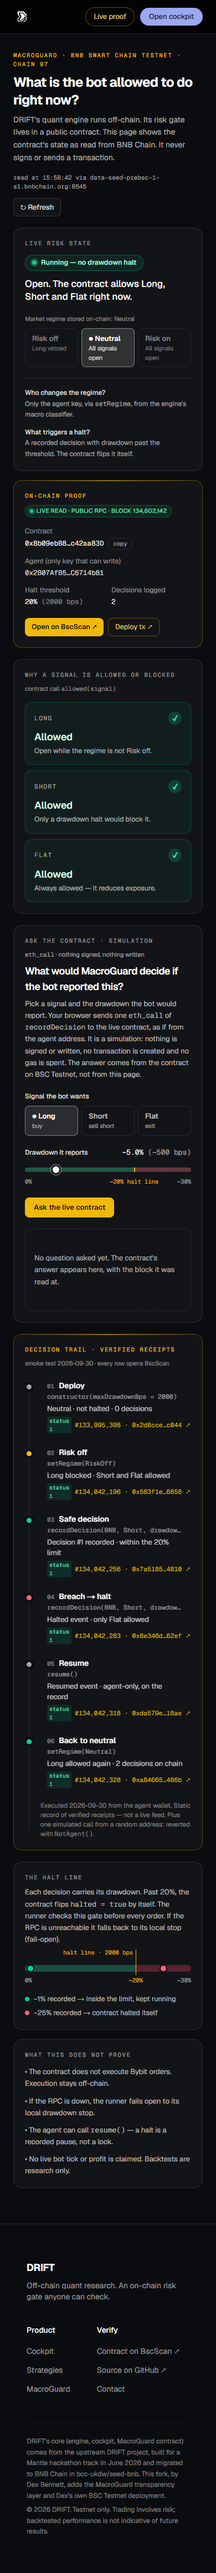
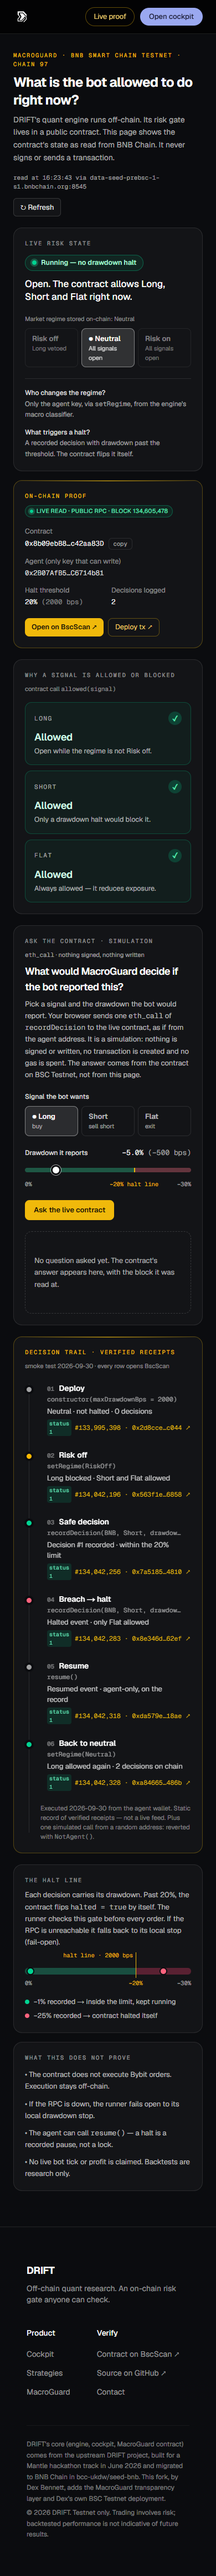
docs(drift): honest upstream note, traceable test claims, dated terminal captures
- What came from upstream: the upstream code names no author; its
  landing page listed only a contact email (site.ts at 52671ce), which
  this fork replaced with Dex's contact. Same note in License.
- The no-look-ahead paragraph drops its percentages and points to the
  assertions in test_backtester.py instead.
- Web tests: all 15 are Dex's (7 on 2 Oct, 8 on 3 Oct); engine suite
  now 47 passed plus 1 strict xfail; pytest command matches CI.
- Terminal recordings re-made at 16.17 WIB with the candle range in
  view and a note that the backtest chart is scaled from its minimum.
- Screenshots of /macroguard refreshed after the warning-icon fix; a
  link to the deck PDF joins the link row.

diff --git a/README.md b/README.md
@@ -6,7 +6,7 @@
 
 *Quant research runs off-chain. The risk gate, MacroGuard, is a public contract on BNB Smart Chain Testnet: anyone can read what the bot is allowed to do right now, ask the contract a what-if, and open every recorded decision on BscScan.*
 
-**[Live demo](https://drift-macroguard.vercel.app)** · **[Public risk gate: `/macroguard`](https://drift-macroguard.vercel.app/macroguard)** · Demo video: not published yet · **[Contract on BscScan (testnet)](https://testnet.bscscan.com/address/0x8b09ebB85Be8Ed55Bb5132d29eABc567c42aa83D)** · **[Source on Sourcify](https://repo.sourcify.dev/97/0x8b09ebB85Be8Ed55Bb5132d29eABc567c42aa83D)**
+**[Live demo](https://drift-macroguard.vercel.app)** · **[Public risk gate: `/macroguard`](https://drift-macroguard.vercel.app/macroguard)** · Demo video: not published yet · **[Contract on BscScan (testnet)](https://testnet.bscscan.com/address/0x8b09ebB85Be8Ed55Bb5132d29eABc567c42aa83D)** · **[Source on Sourcify](https://repo.sourcify.dev/97/0x8b09ebB85Be8Ed55Bb5132d29eABc567c42aa83D)** · **[Pitch deck (PDF)](docs/submission/DRIFT-pitch.pdf)**
 
 [![BNB Chain](https://img.shields.io/badge/Chain-BSC%20Testnet%20(97)-F0B90B?logo=binance&logoColor=white)](https://testnet.bscscan.com/address/0x8b09ebB85Be8Ed55Bb5132d29eABc567c42aa83D)
 [![Sourcify](https://img.shields.io/badge/Sourcify-exact%20match-2ea44f)](https://repo.sourcify.dev/97/0x8b09ebB85Be8Ed55Bb5132d29eABc567c42aa83D)
@@ -33,7 +33,7 @@ Dex Bennett's own MacroGuard deployment: [`0x8b09ebB85Be8Ed55Bb5132d29eABc567c42
 | 5 | `resume()` | Only the agent can resume, and it is on the record (`Resumed` event) | 134,042,318 · 27,030 | [`0xda57…18ae`](https://testnet.bscscan.com/tx/0xda579ebbf2969b855fe50b4520593fb267e33f4db062e0c71c48ca64b18d18ae) |
 | 6 | `setRegime(Neutral)` | Back to Neutral; Long allowed again; 2 decisions on-chain | 134,042,328 · 27,802 | [`0xa846…486b`](https://testnet.bscscan.com/tx/0xa846652354020a77b8c24ef8bb3e088ccecb63f4c2c3267c0a4377c57a39486b) |
 
-The same `setRegime(2)` sent from any other address (simulated with `eth_call` from `0x…dEaD`) reverts with `NotAgent()` (`0x0d9ab13f`). At the testnet gas price of 0.1 gwei, one recorded decision (33–34k gas) costs about 0.0000034 tBNB.
+A `setRegime(2)` sent from any other address (simulated with `eth_call` from `0x…dEaD`) reverts with `NotAgent()` (`0x0d9ab13f`). At the testnet gas price of 0.1 gwei, one recorded decision (33–34k gas) costs about 0.0000034 tBNB.
 
 **What this does not prove.** The contract does not execute exchange orders. The runner fails open to its local stop if the RPC is unreachable. The agent can `resume()` a halt at any time. The drawdown is reported by the agent, not measured by the contract. No live bot tick and no profit are claimed; backtests are research. Details: [`docs/THREAT-MODEL.md`](docs/THREAT-MODEL.md).
 
@@ -85,13 +85,13 @@ DRIFT's core (the quant engine, the cockpit and `MacroGuard.sol`) comes from the
 | 30 Sep | Own MacroGuard deployment on BSC Testnet and a five-transaction smoke test, all status 1 |
 | 1 Oct | PRD and visual direction; redesigned panel (live state, verdicts, receipt trail); landing story; phone layout; first deck |
 | 2 Oct | Source verified on Sourcify; contract reads straight from the browser; provenance and honest copy; public demo on Vercel |
-| 3 Oct | "Ask the contract"; labelled Binance data fallback; 23 contract tests, 45 engine tests and 8 web tests added; CI workflow; threat model; share card; this README; deck v2 |
+| 3 Oct | "Ask the contract"; labelled Binance data fallback; 23 contract tests, 47 engine tests and 8 web tests added; CI workflow; threat model; share card; this README; deck v2 |
 
 Commit history: [`dex/drift`, commits under `drift/`](https://github.com/Stylenecy/seed-bnb/commits/dex/drift/drift).
 
 ### What came from upstream
 
-The quant engine (`apps/trader`: strategies, backtester, optimizer, regime engine, live runner, LLM analyst, Telegram bot), the terminal, the web cockpit and `MacroGuard.sol`. The BNB Chain migration is the seed commit `52671ce` in `bcc-ukdw/seed-bnb` (29 Sep 2026), authored by `yeheskieltame`; its records are [`MIGRATION-BNB.md`](MIGRATION-BNB.md) and [`VERIFY-BNB.md`](VERIFY-BNB.md). The upstream repository does not name the original author of DRIFT. The four strategies are ported from [je-suis-tm/quant-trading](https://github.com/je-suis-tm/quant-trading).
+The quant engine (`apps/trader`: strategies, backtester, optimizer, regime engine, live runner, LLM analyst, Telegram bot), the terminal, the web cockpit and `MacroGuard.sol`. The BNB Chain migration is the seed commit `52671ce` in `bcc-ukdw/seed-bnb` (29 Sep 2026), authored by `yeheskieltame`; its records are [`MIGRATION-BNB.md`](MIGRATION-BNB.md) and [`VERIFY-BNB.md`](VERIFY-BNB.md). The upstream code names no author of DRIFT: its landing page listed only a contact email (`apps/web/src/features/landing/site.ts` at `52671ce`), which this fork replaced with Dex's own contact for the demo. The original author's name and the license will be added once confirmed. The four strategies are ported from [je-suis-tm/quant-trading](https://github.com/je-suis-tm/quant-trading).
 
 ---
 
@@ -100,10 +100,10 @@ The quant engine (`apps/trader`: strategies, backtester, optimizer, regime engin
 | Layer | Command | Count | Notes |
 |---|---|---|---|
 | Contract | `cd contracts && forge test` | 30 (7 upstream + 23 added) | Unit and event tests, 5 fuzz tests, 7 invariants over random agent and stranger call sequences. `forge coverage`: 100% of lines, statements, branches and functions in `MacroGuard.sol`. The contract itself is unchanged. |
-| Engine | `cd apps/trader && pip install -r requirements-dev.txt && python -m pytest` | 45 passed, 1 strict xfail | Offline: `.env` loading is disabled and any non-loopback connection fails the test. Covers no look-ahead as a property, the backtester's one-bar shift, the train/test split, the regime classifier, ChainGuard, the API and the data fallback. The xfail pins a known upstream bug (below). |
-| Web | `cd apps/web && npm test` | 15 (7 + 8 added) | Contract reads and the what-if encoder against `cast` fixtures, RPC fallback, reverts, wrong chain. |
+| Engine | `cd apps && pip install -r trader/requirements-dev.txt && python -m pytest trader/tests -c trader/pytest.ini` | 47 passed, 1 strict xfail | Offline: `.env` loading is disabled and any non-loopback connection or DNS lookup fails the test. Covers no look-ahead as a property, the backtester's one-bar shift, the train/test split, the regime classifier, ChainGuard, the API and the data fallback. The xfail pins a known upstream bug (below). |
+| Web | `cd apps/web && npm test` | 15 (7 added on 2 Oct, 8 on 3 Oct) | Contract reads and the what-if encoder against `cast` fixtures, RPC fallback, reverts, wrong chain. |
 
-**No look-ahead, tested as a property.** For every strategy, `positions(df[:k])` equals `positions(df)[:k]` at every cut `k`, and rewriting future candles never changes a past position. A "same-bar oracle" that peeks at its own candle would earn +845% on the test's synthetic random walk without the backtester's one-bar shift; with the shift it makes +4.8%, the luck of the walk.
+**No look-ahead, tested as a property.** For every strategy, `positions(df[:k])` equals `positions(df)[:k]` at every cut `k`, and rewriting future candles never changes a past position. A test strategy that cheats by trading on its own candle looks like a money machine without the backtester's one-bar shift and loses that edge with it (asserted on a seeded synthetic random walk in `apps/trader/tests/test_backtester.py`).
 
 **CI.** [`.github/workflows/drift-ci.yml`](../.github/workflows/drift-ci.yml) runs all three layers on every change under `drift/`: forge test and coverage, pytest, then `npm ci`, lint, node tests and `next build`.
 
@@ -133,7 +133,7 @@ It ships as three things on one engine:
 - `MacroGuard.sol` targets BNB Smart Chain Testnet (chain 97); mainnet (chain 56) is a config switch. Dex's deployment: [`0x8b09ebB85Be8Ed55Bb5132d29eABc567c42aa83D`](https://testnet.bscscan.com/address/0x8b09ebB85Be8Ed55Bb5132d29eABc567c42aa83D).
 - `allowed(signal)` is the veto gate: a drawdown at or past the line trips the halt until the agent calls `resume()`; risk off blocks new Longs.
 - When configured, the bot attempts `recordDecision(symbol, signal, price, drawdown)` on each tick. Successful transactions create a public decision record; failed or skipped writes do not. The recorded signal is the target after the veto.
-- A **regime engine** (`regime.py`) classifies BTC 1h candles into risk-on / neutral / risk-off using realised-vol z-score + EWMA trend, and pushes `setRegime` on-chain when the label changes and a key is configured.
+- A **regime engine** (`regime.py`) classifies BTC 1h candles into risk-on / neutral / risk-off using realised-vol z-score + EWMA trend, and pushes `setRegime` on-chain when the label changes and a key is configured. A regime classified from fallback data is shown, labelled, and never written on-chain.
 
 ### The public panel (`/macroguard`)
 - Reads the contract straight from the browser over two public RPCs (with fallback): chain id, code at the address, regime, halt, threshold, decision count and `allowed()` for each signal. No engine, key or wallet.
@@ -463,7 +463,7 @@ AUTH_SECRET=…
 - **Testnet-first.** Live trading is explicit opt-in; all orders go to Bybit testnet by default.
 - **Risk boundaries are explicit.** The local drawdown stop lives in `LiveRunner`; the bot queries `MacroGuard.allowed()` before orders. The contract cannot stop an exchange order by itself. If the RPC fails, the bot currently fails open under its local stop.
 - **No look-ahead, no fabricated fills.** Backtests are strictly point-in-time (tested as a property); live equity is read from the real account; the LLM is forbidden from inventing numbers.
-- **Labelled data.** A fallback to Binance public data is named in every response and view; live trading never uses it.
+- **Labelled data.** A fallback to Binance public data is named in every response and view; live trading never uses it, and a regime classified from it is never written on-chain.
 - **Secrets stay out of Git.** Keys entered in the web UI are held in memory. Keys supplied through `.env.local` are stored locally in that Git-ignored file; never commit or share it.
 - **The LLM never executes.** The analyst explains; the deterministic strategy + on-chain guard decide.
 - **Threat model:** [`docs/THREAT-MODEL.md`](docs/THREAT-MODEL.md).
@@ -474,7 +474,7 @@ AUTH_SECRET=…
 
 ## License
 
-The upstream README states that DRIFT is released under the MIT License, but the upstream tree ships no `LICENSE` file and does not name the original author. A `LICENSE` file will be added once the original author confirms the terms.
+The upstream README states that DRIFT is released under the MIT License, but the upstream tree ships no `LICENSE` file and names no author (only a contact email on its landing page, see [What came from upstream](#what-came-from-upstream)). A `LICENSE` file will be added once the original author confirms the terms.
 
 <div align="center">
 <sub>Strategies ported from <a href="https://github.com/je-suis-tm/quant-trading">je-suis-tm/quant-trading</a> · Market data from <a href="https://bybit-exchange.github.io/docs/v5/intro">Bybit V5</a> (Binance public data as a labelled fallback) · Risk gate on <a href="https://testnet.bscscan.com/address/0x8b09ebB85Be8Ed55Bb5132d29eABc567c42aa83D">BNB Chain</a></sub>

diff --git a/SHOWCASE.md b/SHOWCASE.md
@@ -54,19 +54,19 @@ The hero says what DRIFT is in one line and routes to the live gate. The proof s
 
 ## The terminal (`./drift`)
 
-Recorded on 3 Oct 2026 at 15.39 WIB by running the terminal's own commands and exporting Rich's output, with no keys configured. Bybit's API is unreachable from the recording network, so every view below ran on the **Binance public-data fallback** and says so in its last line.
+Recorded on 3 Oct 2026 at 16.17 WIB (09.17 UTC) by running the terminal's own commands and exporting Rich's output, with no keys configured. Bybit's API is unreachable from the recording network, so every view below ran on the **Binance public-data fallback** and says so, with the candle range it used, in its last lines.
 
 ### Auto-Research: optimised on 70%, scored on the held-out 30%
 
 ![Terminal: research btc 1h, leaderboard of four strategies with in-sample and out-of-sample Sharpe, out-of-sample return and verdict](docs/screens/cli/research-btc-1h.png)
 
-Historical simulation on 1,000 hourly BTCUSDT candles. Sharpe is annualised from hourly bars (×√8760), so a single month of data gives large values; "robust" only means both slices passed the 0.5 threshold on this one window. Research, not a profit claim.
+Historical simulation on 1,000 hourly BTCUSDT candles, 22 Aug 18.00 to 3 Oct 09.00 UTC (Binance spot). Sharpe is annualised from hourly bars (×√8760), so about six weeks of data gives large values; "robust" only means both slices passed the 0.5 threshold on this one window. Research, not a profit claim.
 
 ### Point-in-time backtest
 
 ![Terminal: backtest macd btc 1h with return, Sharpe, win rate, max drawdown, trade count and the equity chart](docs/screens/cli/backtest-macd-btc-1h.png)
 
-Historical simulation on 720 hourly candles; a position decided on one bar is earned on the next. Research, not a profit claim; past results do not predict future ones.
+Historical simulation on 720 hourly BTCUSDT candles, 3 Sep 10.00 to 3 Oct 09.00 UTC (Binance spot); a position decided on one bar is earned on the next. The equity chart is scaled from its own minimum to its maximum, not from zero, so a gain of a few percent fills the frame. Research, not a profit claim; past results do not predict future ones.
 
 ### Markets
 
